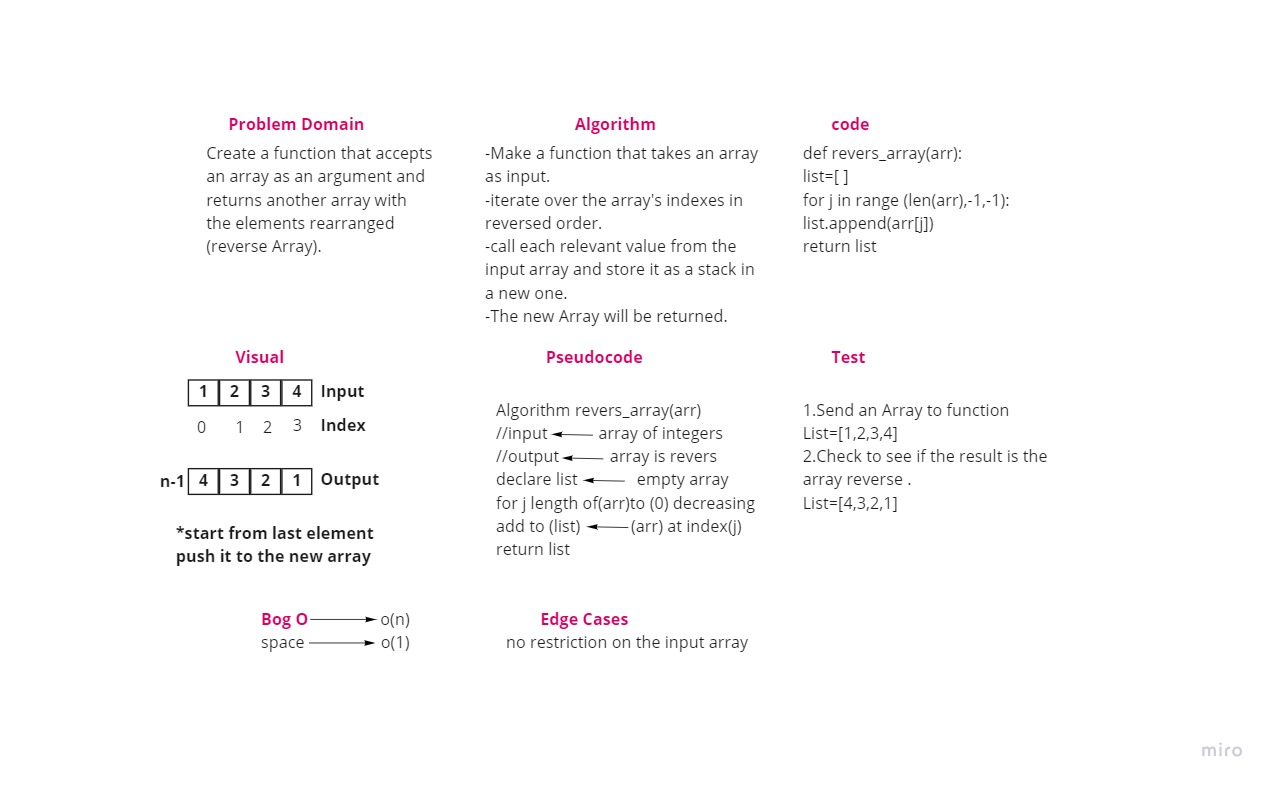
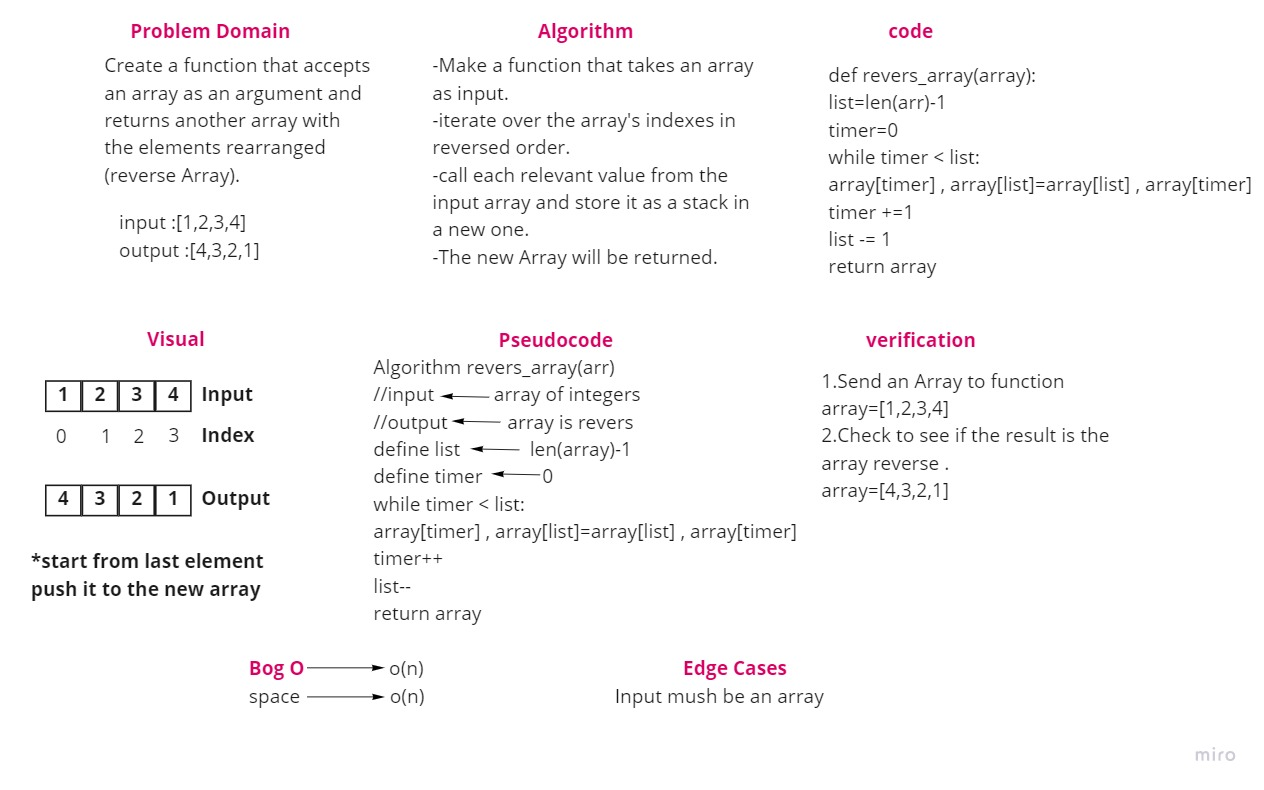
fix

diff --git a/Challenge/Reverse.md b/Challenge/Reverse.md
@@ -5,5 +5,5 @@ Create a function that accepts an array as an argument and returns another array
 # Approach & Efficiency
 The strategy was to walk through the array items one by one, from last to first, and then push each of them into the new array container.<br> 
 The Big O: O(n).<br>
-Space: O(1)
+Space: O(n)
 
